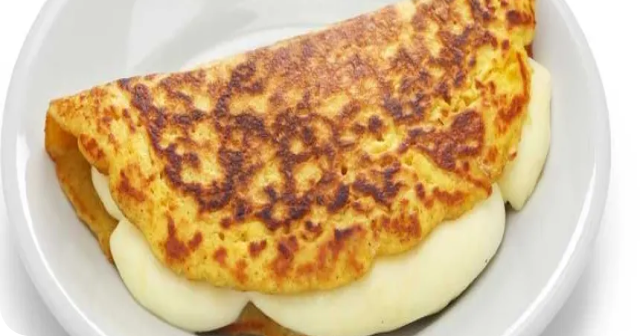
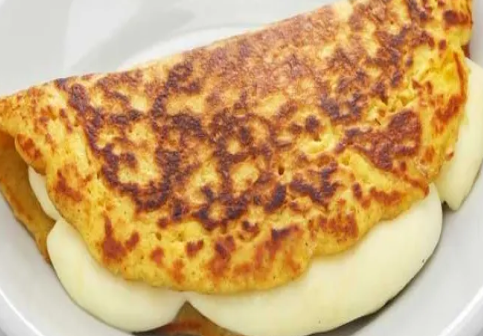
Modificaciones Generales

diff --git a/src/views/Menu.jsx b/src/views/Menu.jsx
@@ -12,7 +12,7 @@ import burger from '../img/Burger_0.png';
 import burger1 from '../img/Burger_1.jpg';
 import cachapa from '../img/Cachapa_1.png';
 import ch from '../img/ClubHouse_1.webp';
-import arepa from '../img/Arepa.webp';
+import arepa from '../img/Arepa.png';
 import parrilla from '../img/Parrilla_1.jpg';
 import pepito from '../img/Pepito.jpg';
 import sandwich from '../img/Sandwich.jpg';
@@ -86,7 +86,7 @@ function Menu() {
                     <h1 className={styles.tituloboton}>Hamburguesas</h1>
                     
                 </div>
-                
+
                 <div className={styles.botonMenu}>     
                     <h1 className={styles.tituloboton}>Parrillas</h1>
                 </div>
@@ -129,7 +129,7 @@ function Menu() {
                     <button id="nextBtn" className={styles.buttonc} onClick={prevCombo}>&gt;</button>
                 <button id="nextBtn" className={styles.buttonc} onClick={nextCombo}>&gt;</button>
                 </div>
-                <h1>MENU</h1>
+                <h1 className={styles.tm}>MENU</h1>
                 <div className={styles.catalogo}>
                     
                     <div className={styles.cartamenu}>
@@ -153,7 +153,7 @@ function Menu() {
                         </NavLink>
                     </div>
                     <div className={styles.cartamenu}>
-                    <NavLink to={routes[1]["children"][0].path}>
+                        <NavLink to={routes[1]["children"][0].path}>
                         <h1 className={styles.titulocarta}>Club House</h1>
                         <img src={ch} alt="ch" />
                         </NavLink>

diff --git a/build/assets/index-DJh3ww4E.css b/build/assets/index-DJh3ww4E.css
@@ -1,0 +1,1 @@
+._header_15vbf_1{display:block;align-items:center;justify-content:space-between;padding:1.5rem 1rem;background-color:#fff;font-family:Marvel,sans-serif}._logoContainer_15vbf_19{display:flex;align-items:center}._logo_15vbf_19{width:40px;height:40px;margin-right:10px}._nav_15vbf_41{display:flex;align-items:center;gap:1.5rem}._nav-link_15vbf_53{color:#000000d8;font-size:1.25rem;text-decoration:none;transition:color .3s;font-family:Marvel,sans-serif}._nav-link_15vbf_53:hover,._nav-link_15vbf_53._active_15vbf_77{color:#000}#root{max-width:1280px;margin:0 auto;padding:2rem;text-align:center}.logo{height:6em;padding:1.5em;will-change:filter;transition:filter .3s}.logo:hover{filter:drop-shadow(0 0 2em #646cffaa)}.logo.react:hover{filter:drop-shadow(0 0 2em #61dafbaa)}@keyframes logo-spin{0%{transform:rotate(0)}to{transform:rotate(360deg)}}@media (prefers-reduced-motion: no-preference){a:nth-of-type(2) .logo{animation:logo-spin infinite 20s linear}}.card{padding:2em}.read-the-docs{color:#888}body{color:#000}

diff --git a/src/constants/routes.ts b/src/constants/routes.ts
@@ -13,6 +13,38 @@ export const routes = [
                 path: "/menu/hamburguesas",
                 name: "Hamburguesas",
             },
+            {
+                path: "/menu/cachapas",
+                name: "Cachapas",
+            },
+            {
+                path: "/menu/clubhouses",
+                name: "Club Houses",
+            },
+            {
+                path: "/menu/arepas",
+                name: "Arepas",
+            },
+            {
+                path: "/menu/parrillas",
+                name: "Parrillas",
+            },
+            {
+                path: "/menu/pepitos",
+                name: "Pepitos",
+            },
+            {
+                path: "/menu/ensaladas",
+                name: "Ensaladas",
+            },
+            {
+                path: "/menu/sandwiches",
+                name: "Sandwiches",
+            },
+            {
+                path: "/menu/otros",
+                name: "Otros",
+            },
 
         ],
     },

diff --git a/src/views/Hamburguesas.module.css b/src/views/Hamburguesas.module.css
@@ -56,7 +56,10 @@
     
   .botonMenu{
       width: 10%;
-      background-color: var(--clr-darkorange);
+      
+      background-color: var(--clr-darkpurple);
+      color: white;
+
       border-radius: 5px;
       border: solid 5px;
       border-color: var(--clr-lightorange);
@@ -194,7 +197,7 @@
   }
   
   .cartamenu{
-    width: 50;
+    width: 40%;
     background-color: var(--clr-white);
     border-radius: 10px;
     padding: 3px;
@@ -203,12 +206,12 @@
    
   }
   
-  .catalogo img{
-    min-width: 350px;
+  .cartamenu img{
+    min-width: 400px;
   }
 
-  .catalogo img{
-    max-width: 350px;
+  .cartamenu img{
+    max-width: 400px;
   }
   
   

diff --git a/src/views/HomePage.jsx b/src/views/HomePage.jsx
@@ -145,7 +145,9 @@ function HomePage() {
                 </div>
                 <div className={styles.cartasmenu}>
                     <div className={styles.cartamenu}>
-                        <img  src={burger} alt="burger" />
+                    <Link className={styles["nav-link"]} to="/menu/hamburguesas"><img  src={burger} alt="burger" /></Link>
+
+                        
                         <h1 className={styles.titulocarta}>Hamburguesa</h1>
                     </div>
                     <div className={styles.cartamenu}>

diff --git a/src/components/NavBar.jsx b/src/components/NavBar.jsx
@@ -81,6 +81,9 @@ export default function NavBar() {
             <div className={styles.nav}>
                 <Link className={styles["nav-link"]} to="/">Inicio</Link>
                 <Link className={styles["nav-link"]} to="/menu">Menú</Link>
+
+                
+
                 <Link className={styles["nav-link"]} to="/nosotros">Nosotros</Link>
                 <Link className={styles["nav-link"]} to="/ayuda">Ayuda</Link>
                 <Link className={`${styles["nav-link"]} ${styles.purpleLink}`} to="/acceder">Acceder</Link>

diff --git a/src/views/Ayuda.module.css b/src/views/Ayuda.module.css
@@ -55,6 +55,7 @@
   
 }
 .formularioayuda {
+  
   font-family: font4;
    
 }
@@ -90,6 +91,14 @@
     border-radius: 15px;
     
   }
+
+ 
+  
+
+.inputC{
+  margin-right: 50%;
+  
+}
 
 .contactos {
     align-content: center;

diff --git a/src/views/Hamburguesas.jsx b/src/views/Hamburguesas.jsx
@@ -1,5 +1,5 @@
 
-import styles from './Menu.module.css';
+import styles from './Hamburguesas.module.css';
 import { useState } from 'react';
 //import c1 from '../img/View.png';
 //import local from '../img/iglogo.png';

diff --git a/src/views/HomePage.module.css b/src/views/HomePage.module.css
@@ -245,7 +245,6 @@
     display: flex;
     justify-content: flex-end;
     
-    
   }
   
   .containerOrigenes{

diff --git a/src/views/Error.jsx b/src/views/Error.jsx
@@ -1,5 +1,6 @@
 import styles from './HomePage.module.css';
 
+
 function Error() {
     return (
         <div>
